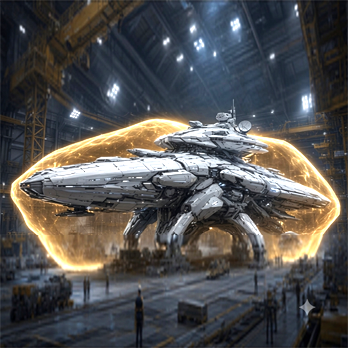
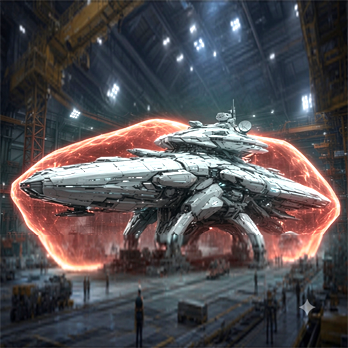
wiki: growth curve v2 (time per level on one log curve, r 1.208, L36 21.6h, L60 2,000h, retest4 autoplay comparison) KO/EN · phantom apex legend + apex legend ship art refresh

diff --git a/en/growth.html b/en/growth.html
@@ -4,7 +4,7 @@
 <meta charset="utf-8" />
 <meta name="viewport" content="width=device-width, initial-scale=1" />
 <title>Growth Curve · ARCFIRE Wiki</title>
-<meta name="description" content="EXP needed and cumulative EXP for levels 1–60, the logarithmic growth curve and EXP reward multipliers." />
+<meta name="description" content="Time per level and cumulative time for levels 1–60 on a logarithmic growth curve, plus EXP needed and EXP reward multipliers." />
 <link rel="alternate" hreflang="ko" href="https://eomikjin.github.io/arcfire-wiki/growth.html" />
 <link rel="alternate" hreflang="en" href="https://eomikjin.github.io/arcfire-wiki/en/growth.html" />
 <link rel="alternate" hreflang="x-default" href="https://eomikjin.github.io/arcfire-wiki/growth.html" />
@@ -68,9 +68,36 @@
     <div class="content-wrap">
     <article class="content">
       <div class="eyebrow">Systems · Growth</div>
-      <h1 class="page-title">Growth Curve <span class="pill">updated 2026-10-24</span></h1>
+      <h1 class="page-title">Growth Curve <span class="pill">updated 2026-11-04</span></h1>
       <p>
-        The level cap is <strong>60</strong>. The EXP needed for the next level follows a <strong>logarithmic growth curve</strong> —
+        The level cap is <strong>60</strong>. Each level takes <strong>a fixed ratio longer than the one before</strong> —
+        put time on the horizontal axis and your level traces a <strong>logarithmic curve</strong> (y = k·log x). Early levels come fast,
+        progress slows through the middle, and near the cap a single level takes a very long time (saturation).
+      </p>
+      <ul>
+        <li><strong>L1–15 — introduction.</strong> Kept as designed for the first hour: about 40 minutes.</li>
+        <li><strong>L15–60 — one ratio.</strong> Time to the next level grows by <strong id="r-inline">×1.21</strong> every level. No kinks.</li>
+        <li><strong>End of the main story (L36)</strong> at about <strong id="story-inline">22 h</strong> total · <strong>L60</strong> at about <strong id="l60-inline">2,000 h</strong>. The last level (L59→60) alone is about <strong id="last-inline">17%</strong> of the total.</li>
+        <li>Times are measured with <strong>autoplay (the twin)</strong>. Human play time may differ.</li>
+      </ul>
+
+      <h2 id="time-chart">Time per level — log chart</h2>
+      <div class="table-wrap" id="growth-chart" aria-label="Log chart of time to next level — target curve, previous table, autoplay measurement"></div>
+
+      <h2 id="smooth">Smoothness check</h2>
+      <div id="smooth-box"></div>
+
+      <h2 id="time-table">Level table — time (L1–60)</h2>
+      <div id="growth-table"></div>
+      <div class="callout note">
+        <strong>How to read</strong>
+        The <em>target curve</em> is the reference. <em>Previous table</em> is the level-time table used until now; <em>measured</em> is autoplay retest 4 (up to the end of the main story, L36).
+        Within ±15% cumulative and ±30% on a 3-level moving average counts as a pass. The swings in the middle levels (L22–34) will be smoothed out step by step in the next tests.
+      </div>
+
+      <h2 id="exp">EXP needed</h2>
+      <p>
+        The EXP needed for the next level also follows a <strong>logarithmic growth curve</strong> —
         L1–15 is a short introduction, from L16 the requirement grows smoothly, and a second climb starts in the mid-40s,
         so each level takes longer as you approach the cap. The table only ever moves you up one level at a time (one reward never skips two levels).
       </p>
@@ -81,10 +108,10 @@
         <li><strong>Level gap</strong> — combat EXP from battlefields far below your level is reduced (<a href="combat.html">Combat · Conflict</a>).</li>
       </ul>
 
-      <h2 id="chart">Log chart</h2>
+      <h2 id="chart">EXP needed — log chart</h2>
       <div class="table-wrap" id="level-curve-chart" aria-label="Log chart of EXP to next level and cumulative EXP"></div>
 
-      <h2 id="table">Level table — L1–60</h2>
+      <h2 id="table">Level table — EXP (L1–60)</h2>
       <div id="level-table"></div>
       <div class="callout note">
         <strong>Numbers may change</strong>
@@ -104,6 +131,7 @@
 <script>window.WIKI_ASSET_PREFIX = "../";</script>
 <script src="search-index-en.js"></script>
 <script src="../assets/data/levels.js"></script>
+<script src="../assets/data/growth_v2.js"></script>
 <script src="../assets/datatable.js"></script>
 <script src="../assets/wiki.js"></script>
 <script src="../assets/comments.js"></script>
@@ -156,6 +184,96 @@
     var legend = '<div style="display:flex;gap:1.2em;flex-wrap:wrap;font-size:0.85em;color:var(--text-dim);margin:0.3em 0 0.8em">' +
       series.map(function (s) { return '<span><span style="display:inline-block;width:14px;height:3px;background:' + s.color + ';vertical-align:middle;margin-right:6px"></span>' + s.name + "</span>"; }).join("") +
       "<span>Vertical axis = log scale</span></div>";
+    box.innerHTML = svg + legend;
+  })();
+  // Time per level curve (11-04) — target curve · previous table · autoplay measurement
+  (function () {
+    var D = window.GROWTH_V2;
+    if (!D) return;
+    var S = D.summary, rows = D.rows;
+    var hm = function (min) {
+      if (min == null) return "—";
+      if (min < 60) return min.toFixed(min < 10 ? 1 : 0) + " min";
+      var h = min / 60;
+      return (h < 100 ? h.toFixed(1) : Math.round(h).toLocaleString("en-US")) + " h";
+    };
+    var hh = function (h) { return h == null ? "—" : hm(h * 60); };
+    var pct = function (v, lim) {
+      if (v == null) return "—";
+      var ok = Math.abs(v) <= lim;
+      return '<span style="color:' + (ok ? "var(--text)" : "var(--warm)") + '">' + (v > 0 ? "+" : "") + v + "%" + (ok ? "" : " ✕") + "</span>";
+    };
+    document.getElementById("r-inline").textContent = "×" + S.r.toFixed(3);
+    document.getElementById("story-inline").textContent = S.storyEndCumH.toFixed(1) + " h";
+    document.getElementById("l60-inline").textContent = Math.round(S.l60CumH).toLocaleString("en-US") + " h";
+    document.getElementById("last-inline").textContent = S.lastLevelSharePct.toFixed(1) + "% (about " + Math.round(S.lastLevelH) + " h)";
+
+    var sm = S.smooth, fj = S.freezeJoin;
+    var cp = (S.checkpoints || []).map(function (c) {
+      return "<li>L" + c.level + " cumulative: measured " + c.twinH.toFixed(1) + " h / target " + c.newH.toFixed(1) + " h → " + pct(Math.round(c.devPct), 15) + "</li>";
+    }).join("");
+    document.getElementById("smooth-box").innerHTML =
+      "<ul>" +
+      "<li><strong>Target curve L15–60</strong>: constant growth per level (ln r = " + S.g.toFixed(3) + ") — no kinks</li>" +
+      "<li><strong>Previous table L15–60</strong>: largest change in growth " + sm.curL15to60.dg.toFixed(3) + " (L" + sm.curL15to60.at + ") — kinks at L22–24</li>" +
+      "<li><strong>Intro join (L14→16)</strong>: intro table L14→15 is ×" + Math.exp(fj.gFrozenL14).toFixed(2) + " → curve ×" + S.r.toFixed(3) + " — a small kink remains (the intro table is fixed)</li>" +
+      "<li><strong>Autoplay measured, cumulative</strong> (±15%):<ul>" + cp + "</ul></li>" +
+      "</ul>";
+
+    mountWikiDataTable({
+      mount: document.getElementById("growth-table"),
+      data: rows,
+      label: "Levels",
+      pageSize: 60,
+      searchKeys: ["level"],
+      columns: [
+        { key: "level", label: "Level", num: true, render: function (r) { return "L" + r.level; } },
+        { key: "newMin", label: "To next level", num: true, render: function (r) { return r.newMin == null ? "Max level" : hm(r.newMin); } },
+        { key: "newCumH", label: "Cumulative", num: true, render: function (r) { return hh(r.newCumH); } },
+        { key: "r", label: "Ratio r", num: true, render: function (r) { return r.r == null ? "—" : "×" + Number(r.r).toFixed(3); } },
+        { key: "curMin", label: "Previous", num: true, render: function (r) { return hm(r.curMin); } },
+        { key: "curCumH", label: "Prev. cum.", num: true, render: function (r) { return hh(r.curCumH); } },
+        { key: "twinMin", label: "Measured", num: true, render: function (r) { return hm(r.twinMin); } },
+        { key: "twinCumH", label: "Meas. cum.", num: true, render: function (r) { return hh(r.twinCumH); } },
+        { key: "cumDevPct", label: "Cum. dev.", num: true, render: function (r) { return pct(r.cumDevPct, 15); } },
+        { key: "ma3DevPct", label: "3-level dev.", num: true, render: function (r) { return pct(r.ma3DevPct, 30); } },
+      ],
+    });
+
+    var box = document.getElementById("growth-chart");
+    var series = [
+      { key: "newMin", name: "Target curve", color: "var(--accent)", width: 2.6 },
+      { key: "curMin", name: "Previous table", color: "var(--text-dim)", width: 1.6, dash: "5 4" },
+      { key: "twinMin", name: "Autoplay measured (retest 4)", color: "var(--warm)", width: 2 },
+    ];
+    var pts = series.map(function (s) {
+      return rows.filter(function (r) { return r[s.key] != null && r[s.key] > 0; }).map(function (r) { return [r.level, r[s.key]]; });
+    });
+    var all = [].concat.apply([], pts).map(function (p) { return p[1]; });
+    if (!box || !all.length) return;
+    var W = 760, H = 320, mL = 60, mR = 12, mT = 12, mB = 30;
+    var lo = Math.floor(Math.log10(Math.min.apply(null, all))), hi = Math.ceil(Math.log10(Math.max.apply(null, all)));
+    var X = function (lv) { return mL + ((lv - 1) / 59) * (W - mL - mR); };
+    var Y = function (v) { return mT + (1 - (Math.log10(v) - lo) / (hi - lo)) * (H - mT - mB); };
+    var svg = '<svg viewBox="0 0 ' + W + " " + H + '" width="100%" role="img" style="min-width:420px;font-family:var(--font-body)">';
+    for (var e = lo; e <= hi; e += 1) {
+      var v = Math.pow(10, e), y = Y(v);
+      svg += '<line x1="' + mL + '" x2="' + (W - mR) + '" y1="' + y + '" y2="' + y + '" stroke="var(--border)" stroke-width="1"/>';
+      svg += '<text x="' + (mL - 6) + '" y="' + y + '" dy="0.32em" text-anchor="end" font-size="11" fill="var(--text-dim)">' + hm(v) + "</text>";
+    }
+    [1, 10, 15, 20, 30, 36, 40, 50, 60].forEach(function (lv) {
+      svg += '<text x="' + X(lv) + '" y="' + (H - 8) + '" text-anchor="middle" font-size="11" fill="var(--text-dim)">L' + lv + "</text>";
+    });
+    svg += '<line x1="' + X(36) + '" x2="' + X(36) + '" y1="' + mT + '" y2="' + (H - mB) + '" stroke="var(--border)" stroke-dasharray="2 4"/>';
+    svg += '<text x="' + (X(36) + 4) + '" y="' + (mT + 12) + '" font-size="11" fill="var(--text-dim)">Story end</text>';
+    pts.forEach(function (p, i) {
+      var d = p.map(function (q, j) { return (j ? "L" : "M") + X(q[0]).toFixed(1) + " " + Y(q[1]).toFixed(1); }).join(" ");
+      svg += '<path d="' + d + '" fill="none" stroke="' + series[i].color + '" stroke-width="' + series[i].width + '"' + (series[i].dash ? ' stroke-dasharray="' + series[i].dash + '"' : "") + ' stroke-linejoin="round"/>';
+    });
+    svg += "</svg>";
+    var legend = '<div style="display:flex;gap:1.2em;flex-wrap:wrap;font-size:0.85em;color:var(--text-dim);margin:0.3em 0 0.8em">' +
+      series.map(function (s) { return '<span><span style="display:inline-block;width:14px;height:3px;background:' + s.color + ';vertical-align:middle;margin-right:6px"></span>' + s.name + "</span>"; }).join("") +
+      "<span>Vertical axis = log scale · straight target line = constant ratio</span></div>";
     box.innerHTML = svg + legend;
   })();
 </script>

diff --git a/growth.html b/growth.html
@@ -63,9 +63,36 @@
     <div class="content-wrap">
     <article class="content">
       <div class="eyebrow">체제 · 성장</div>
-      <h1 class="page-title">성장 곡선 <span class="pill">2026-10-24 갱신</span></h1>
-            <p>
-        최고 레벨은 <strong>60</strong>이다. 다음 레벨까지 필요한 경험치는 <strong>로그 성장 곡선</strong>을 따른다 —
+      <h1 class="page-title">성장 곡선 <span class="pill">2026-11-04 갱신</span></h1>
+      <p>
+        최고 레벨은 <strong>60</strong>이다. 레벨이 오를 때마다 <strong>다음 레벨까지 걸리는 시간이 일정한 비율로 늘어난다</strong> —
+        시간을 가로축에 놓으면 레벨은 <strong>로그 곡선</strong>(y = k·log x)을 그린다. 초반은 빠르게 오르고, 중반부터 점점 느려지며,
+        만렙 가까이에서는 한 레벨이 매우 길다(포화).
+      </p>
+      <ul>
+        <li><strong>L1~15 — 입문.</strong> 첫 1시간 설계 그대로 약 40분에 지나간다.</li>
+        <li><strong>L15~60 — 한 가지 비율.</strong> 다음 레벨까지 시간이 매 레벨 <strong id="r-inline">×1.21</strong>배. 꺾이는 곳이 없다.</li>
+        <li><strong>본편 끝(L36)</strong> 누적 약 <strong id="story-inline">22시간</strong> · <strong>L60</strong> 누적 약 <strong id="l60-inline">2,000시간</strong>. 마지막 한 레벨(L59→60)이 전체의 약 <strong id="last-inline">17%</strong>를 차지한다.</li>
+        <li>시간은 <strong>자동 플레이(트윈)</strong>로 잰 시간이 기준이다. 사람 플레이 시간은 이와 다를 수 있다.</li>
+      </ul>
+
+      <h2 id="time-chart">레벨당 시간 — 로그 그래프</h2>
+      <div class="table-wrap" id="growth-chart" aria-label="레벨별 다음 레벨까지 시간 로그 그래프 — 목표 곡선 · 이전 표 · 자동 플레이 실측"></div>
+
+      <h2 id="smooth">매끄러움 판정</h2>
+      <div id="smooth-box"></div>
+
+      <h2 id="time-table">레벨 표 — 시간 (L1~60)</h2>
+      <div id="growth-table"></div>
+      <div class="callout note">
+        <strong>읽는 법</strong>
+        「목표 곡선」이 기준이다. 「이전 표」는 지금까지 쓰던 레벨 시간 표, 「실측」은 자동 플레이 재테스트4(본편 끝 L36까지) 결과다.
+        누적 편차 ±15%, 3레벨 이동평균 편차 ±30% 안이면 통과로 본다. 중간 레벨(L22~34)의 출렁임은 다음 테스트들에서 단계적으로 편다.
+      </div>
+
+      <h2 id="exp">필요 경험치</h2>
+      <p>
+        다음 레벨까지 필요한 경험치도 <strong>로그 성장 곡선</strong>을 따른다 —
         L1~15는 짧게 지나가는 입문 구간이고, L16부터 필요량이 매끄럽게 커지며, L40대 중반부터 두 번째 오르막이 시작돼
         만렙에 가까울수록 한 레벨이 길어진다. 레벨 표는 한 번에 한 레벨씩만 오르도록 짜여 있다(보상 한 번으로 두 레벨을 건너뛰지 않는다).
       </p>
@@ -75,9 +102,9 @@
         <li><strong>퀘스트 보상은 그 퀘스트의 레벨까지만 배율을 받는다.</strong> 퀘스트를 쌓아 두었다가 높은 레벨에서 깨도 보상이 더 커지지 않는다.</li>
         <li><strong>레벨 차이</strong> — 내 레벨보다 많이 낮은 전장에서 얻는 전투 경험치는 줄어든다(<a href="combat.html">전투 · 분쟁</a>).</li>
       </ul>
-      <h2 id="chart">로그 그래프</h2>
+      <h2 id="chart">필요 경험치 — 로그 그래프</h2>
       <div class="table-wrap" id="level-curve-chart" aria-label="레벨별 필요 경험치 · 누적 경험치 로그 그래프"></div>
-      <h2 id="table">레벨 표 — L1~60</h2>
+      <h2 id="table">레벨 표 — 경험치 (L1~60)</h2>
       <div id="level-table"></div>
       <div class="callout note">
         <strong>수치는 바뀔 수 있다</strong>
@@ -96,6 +123,7 @@
 <footer class="site-footer">아크파이어 게임 위키 · 비공식 정리본</footer>
 <script src="assets/search-index.js"></script>
 <script src="assets/data/levels.js"></script>
+<script src="assets/data/growth_v2.js"></script>
 <script src="assets/datatable.js"></script>
 <script src="assets/wiki.js"></script>
 <script src="assets/comments.js"></script>
@@ -149,6 +177,96 @@
     var legend = '<div style="display:flex;gap:1.2em;flex-wrap:wrap;font-size:0.85em;color:var(--text-dim);margin:0.3em 0 0.8em">' +
       series.map(function (s) { return '<span><span style="display:inline-block;width:14px;height:3px;background:' + s.color + ';vertical-align:middle;margin-right:6px"></span>' + s.name + "</span>"; }).join("") +
       "<span>세로축 = 로그 눈금</span></div>";
+    box.innerHTML = svg + legend;
+  })();
+  // 레벨당 시간 곡선(11-04) — 목표 곡선 · 이전 표 · 자동 플레이 실측
+  (function () {
+    var D = window.GROWTH_V2;
+    if (!D) return;
+    var S = D.summary, rows = D.rows;
+    var hm = function (min) {
+      if (min == null) return "—";
+      if (min < 60) return min.toFixed(min < 10 ? 1 : 0) + "분";
+      var h = min / 60;
+      return (h < 100 ? h.toFixed(1) : Math.round(h).toLocaleString("ko-KR")) + "시간";
+    };
+    var hh = function (h) { return h == null ? "—" : hm(h * 60); };
+    var pct = function (v, lim) {
+      if (v == null) return "—";
+      var ok = Math.abs(v) <= lim;
+      return '<span style="color:' + (ok ? "var(--text)" : "var(--warm)") + '">' + (v > 0 ? "+" : "") + v + "%" + (ok ? "" : " ✕") + "</span>";
+    };
+    document.getElementById("r-inline").textContent = "×" + S.r.toFixed(3);
+    document.getElementById("story-inline").textContent = S.storyEndCumH.toFixed(1) + "시간";
+    document.getElementById("l60-inline").textContent = Math.round(S.l60CumH).toLocaleString("ko-KR") + "시간";
+    document.getElementById("last-inline").textContent = S.lastLevelSharePct.toFixed(1) + "%(약 " + Math.round(S.lastLevelH) + "시간)";
+
+    var sm = S.smooth, fj = S.freezeJoin;
+    var cp = (S.checkpoints || []).map(function (c) {
+      return "<li>L" + c.level + " 누적: 실측 " + c.twinH.toFixed(1) + "시간 / 목표 " + c.newH.toFixed(1) + "시간 → " + pct(Math.round(c.devPct), 15) + "</li>";
+    }).join("");
+    document.getElementById("smooth-box").innerHTML =
+      "<ul>" +
+      "<li><strong>목표 곡선 L15~60</strong>: 레벨당 증가율이 일정(ln r = " + S.g.toFixed(3) + ") — 꺾임 없음</li>" +
+      "<li><strong>이전 표 L15~60</strong>: 증가율 변화 최대 " + sm.curL15to60.dg.toFixed(3) + "(L" + sm.curL15to60.at + ") — L22~24에서 꺾임</li>" +
+      "<li><strong>입문 이음(L14→16)</strong>: 입문 표 L14→15가 ×" + Math.exp(fj.gFrozenL14).toFixed(2) + " → 곡선 ×" + S.r.toFixed(3) + " — 작은 꺾임이 남아 있다(입문 표는 고정)</li>" +
+      "<li><strong>자동 플레이 실측 누적</strong>(±15%):<ul>" + cp + "</ul></li>" +
+      "</ul>";
+
+    mountWikiDataTable({
+      mount: document.getElementById("growth-table"),
+      data: rows,
+      label: "레벨",
+      pageSize: 60,
+      searchKeys: ["level"],
+      columns: [
+        { key: "level", label: "레벨", num: true, render: function (r) { return "L" + r.level; } },
+        { key: "newMin", label: "다음 레벨까지", num: true, render: function (r) { return r.newMin == null ? "최고 레벨" : hm(r.newMin); } },
+        { key: "newCumH", label: "누적", num: true, render: function (r) { return hh(r.newCumH); } },
+        { key: "r", label: "비율 r", num: true, render: function (r) { return r.r == null ? "—" : "×" + Number(r.r).toFixed(3); } },
+        { key: "curMin", label: "이전 표", num: true, render: function (r) { return hm(r.curMin); } },
+        { key: "curCumH", label: "이전 누적", num: true, render: function (r) { return hh(r.curCumH); } },
+        { key: "twinMin", label: "실측", num: true, render: function (r) { return hm(r.twinMin); } },
+        { key: "twinCumH", label: "실측 누적", num: true, render: function (r) { return hh(r.twinCumH); } },
+        { key: "cumDevPct", label: "누적 편차", num: true, render: function (r) { return pct(r.cumDevPct, 15); } },
+        { key: "ma3DevPct", label: "3레벨 편차", num: true, render: function (r) { return pct(r.ma3DevPct, 30); } },
+      ],
+    });
+
+    var box = document.getElementById("growth-chart");
+    var series = [
+      { key: "newMin", name: "목표 곡선", color: "var(--accent)", width: 2.6 },
+      { key: "curMin", name: "이전 표", color: "var(--text-dim)", width: 1.6, dash: "5 4" },
+      { key: "twinMin", name: "자동 플레이 실측(재테스트4)", color: "var(--warm)", width: 2 },
+    ];
+    var pts = series.map(function (s) {
+      return rows.filter(function (r) { return r[s.key] != null && r[s.key] > 0; }).map(function (r) { return [r.level, r[s.key]]; });
+    });
+    var all = [].concat.apply([], pts).map(function (p) { return p[1]; });
+    if (!box || !all.length) return;
+    var W = 760, H = 320, mL = 60, mR = 12, mT = 12, mB = 30;
+    var lo = Math.floor(Math.log10(Math.min.apply(null, all))), hi = Math.ceil(Math.log10(Math.max.apply(null, all)));
+    var X = function (lv) { return mL + ((lv - 1) / 59) * (W - mL - mR); };
+    var Y = function (v) { return mT + (1 - (Math.log10(v) - lo) / (hi - lo)) * (H - mT - mB); };
+    var svg = '<svg viewBox="0 0 ' + W + " " + H + '" width="100%" role="img" style="min-width:420px;font-family:var(--font-body)">';
+    for (var e = lo; e <= hi; e += 1) {
+      var v = Math.pow(10, e), y = Y(v);
+      svg += '<line x1="' + mL + '" x2="' + (W - mR) + '" y1="' + y + '" y2="' + y + '" stroke="var(--border)" stroke-width="1"/>';
+      svg += '<text x="' + (mL - 6) + '" y="' + y + '" dy="0.32em" text-anchor="end" font-size="11" fill="var(--text-dim)">' + hm(v) + "</text>";
+    }
+    [1, 10, 15, 20, 30, 36, 40, 50, 60].forEach(function (lv) {
+      svg += '<text x="' + X(lv) + '" y="' + (H - 8) + '" text-anchor="middle" font-size="11" fill="var(--text-dim)">L' + lv + "</text>";
+    });
+    svg += '<line x1="' + X(36) + '" x2="' + X(36) + '" y1="' + mT + '" y2="' + (H - mB) + '" stroke="var(--border)" stroke-dasharray="2 4"/>';
+    svg += '<text x="' + (X(36) + 4) + '" y="' + (mT + 12) + '" font-size="11" fill="var(--text-dim)">본편 끝</text>';
+    pts.forEach(function (p, i) {
+      var d = p.map(function (q, j) { return (j ? "L" : "M") + X(q[0]).toFixed(1) + " " + Y(q[1]).toFixed(1); }).join(" ");
+      svg += '<path d="' + d + '" fill="none" stroke="' + series[i].color + '" stroke-width="' + series[i].width + '"' + (series[i].dash ? ' stroke-dasharray="' + series[i].dash + '"' : "") + ' stroke-linejoin="round"/>';
+    });
+    svg += "</svg>";
+    var legend = '<div style="display:flex;gap:1.2em;flex-wrap:wrap;font-size:0.85em;color:var(--text-dim);margin:0.3em 0 0.8em">' +
+      series.map(function (s) { return '<span><span style="display:inline-block;width:14px;height:3px;background:' + s.color + ';vertical-align:middle;margin-right:6px"></span>' + s.name + "</span>"; }).join("") +
+      "<span>세로축 = 로그 눈금 · 목표 곡선이 직선 = 비율 일정</span></div>";
     box.innerHTML = svg + legend;
   })();
 </script>

diff --git a/assets/data/growth_v2.js b/assets/data/growth_v2.js
@@ -1,0 +1,2 @@
+// 생성: docs/balance/staging/growth-curve-v2-20261104/build-growth-curve-v2.mjs — 손으로 고치지 말 것
+window.GROWTH_V2 = {"summary":{"generatedAt":"2026-11-04T00:32:22.141Z","targetL60H":2000,"r":1.2084,"g":0.1892971705303798,"storyEndLevel":36,"storyEndCumH":21.55681758662071,"l60CumH":2001.978267582052,"lastLevelH":345.2154978738548,"lastLevelSharePct":17.24371854899299,"freezeJoin":{"gFrozenL14":0.3566749439387324,"gCurve":0.1892971705303798,"dg":0.16737777340835258},"smooth":{"newL15to60":{"dg":3.608224830031759e-16,"at":22},"newWithFrozen":{"dg":0.40546510810816444,"at":2},"curAll":{"dg":0.40546510810816444,"at":2},"curL15to60":{"dg":0.1098148660072065,"at":22}},"twinMaxLevel":36,"checkpoints":[{"level":20,"twinH":1.946108611111111,"newH":1.2887872047551594,"devPct":51.003098411488956},{"level":25,"twinH":5.061691111111111,"newH":2.913239263821098,"devPct":73.74786801658144},{"level":30,"twinH":15.788919444444444,"newH":7.098865860501894,"devPct":122.4146751707766},{"level":35,"twinH":20.54463472222222,"newH":17.883714763285372,"devPct":14.879011403154463},{"level":36,"twinH":24.831139166666667,"newH":21.55681758662071,"devPct":15.189262361612087}]},"rows":[{"level":1,"newMin":3,"newCumH":0,"r":0.667,"curMin":3,"curCumH":0,"twinMin":1.3,"twinCumH":0,"cumDevPct":null,"ma3DevPct":null},{"level":2,"newMin":2,"newCumH":0.05,"r":1,"curMin":2,"curCumH":0.05,"twinMin":0.9,"twinCumH":0.02,"cumDevPct":-56,"ma3DevPct":-31},{"level":3,"newMin":2,"newCumH":0.08,"r":1,"curMin":2,"curCumH":0.08,"twinMin":2.6,"twinCumH":0.04,"cumDevPct":-56,"ma3DevPct":-17},{"level":4,"newMin":2,"newCumH":0.12,"r":1,"curMin":2,"curCumH":0.12,"twinMin":1.5,"twinCumH":0.08,"cumDevPct":-31,"ma3DevPct":1},{"level":5,"newMin":2,"newCumH":0.15,"r":1,"curMin":2,"curCumH":0.15,"twinMin":2,"twinCumH":0.11,"cumDevPct":-30,"ma3DevPct":-17},{"level":6,"newMin":2,"newCumH":0.18,"r":1.5,"curMin":2,"curCumH":0.18,"twinMin":1.5,"twinCumH":0.14,"cumDevPct":-25,"ma3DevPct":73},{"level":7,"newMin":3,"newCumH":0.22,"r":1,"curMin":3,"curCumH":0.22,"twinMin":8.6,"twinCumH":0.16,"cumDevPct":-25,"ma3DevPct":54},{"level":8,"newMin":3,"newCumH":0.27,"r":1,"curMin":3,"curCumH":0.27,"twinMin":2.2,"twinCumH":0.31,"cumDevPct":15,"ma3DevPct":43},{"level":9,"newMin":3,"newCumH":0.32,"r":1.167,"curMin":3,"curCumH":0.32,"twinMin":2.1,"twinCumH":0.34,"cumDevPct":8,"ma3DevPct":-32},{"level":10,"newMin":3.5,"newCumH":0.37,"r":1,"curMin":3.5,"curCumH":0.37,"twinMin":2.2,"twinCumH":0.38,"cumDevPct":3,"ma3DevPct":-38},{"level":11,"newMin":3.5,"newCumH":0.42,"r":1,"curMin":3.5,"curCumH":0.42,"twinMin":1.9,"twinCumH":0.41,"cumDevPct":-2,"ma3DevPct":-44},{"level":12,"newMin":3.5,"newCumH":0.48,"r":1,"curMin":3.5,"curCumH":0.48,"twinMin":1.7,"twinCumH":0.45,"cumDevPct":-8,"ma3DevPct":-30},{"level":13,"newMin":3.5,"newCumH":0.54,"r":1,"curMin":3.5,"curCumH":0.54,"twinMin":3.7,"twinCumH":0.48,"cumDevPct":-12,"ma3DevPct":-37},{"level":14,"newMin":3.5,"newCumH":0.6,"r":1.429,"curMin":3.5,"curCumH":0.6,"twinMin":1.2,"twinCumH":0.54,"cumDevPct":-11,"ma3DevPct":59},{"level":15,"newMin":5,"newCumH":0.66,"r":1.208,"curMin":5,"curCumH":0.66,"twinMin":14.2,"twinCumH":0.56,"cumDevPct":-15,"ma3DevPct":99},{"level":16,"newMin":6.04,"newCumH":0.74,"r":1.2084,"curMin":6,"curCumH":0.74,"twinMin":13.5,"twinCumH":0.79,"cumDevPct":7,"ma3DevPct":204},{"level":17,"newMin":7.3,"newCumH":0.84,"r":1.2084,"curMin":7,"curCumH":0.84,"twinMin":27.9,"twinCumH":1.02,"cumDevPct":21,"ma3DevPct":160},{"level":18,"newMin":8.82,"newCumH":0.96,"r":1.2084,"curMin":9,"curCumH":0.96,"twinMin":16.1,"twinCumH":1.49,"cumDevPct":54,"ma3DevPct":108},{"level":19,"newMin":10.66,"newCumH":1.11,"r":1.2084,"curMin":11,"curCumH":1.11,"twinMin":11.5,"twinCumH":1.75,"cumDevPct":58,"ma3DevPct":14},{"level":20,"newMin":12.88,"newCumH":1.29,"r":1.2084,"curMin":15,"curCumH":1.29,"twinMin":9.2,"twinCumH":1.95,"cumDevPct":51,"ma3DevPct":4},{"level":21,"newMin":15.57,"newCumH":1.5,"r":1.2084,"curMin":20,"curCumH":1.54,"twinMin":20,"twinCumH":2.1,"cumDevPct":40,"ma3DevPct":24},{"level":22,"newMin":18.81,"newCumH":1.76,"r":1.2084,"curMin":25,"curCumH":1.88,"twinMin":29.3,"twinCumH":2.43,"cumDevPct":38,"ma3DevPct":88},{"level":23,"newMin":22.73,"newCumH":2.08,"r":1.2084,"curMin":28,"curCumH":2.29,"twinMin":58.3,"twinCumH":2.92,"cumDevPct":41,"ma3DevPct":129},{"level":24,"newMin":27.47,"newCumH":2.46,"r":1.2084,"curMin":29.3,"curCumH":2.76,"twinMin":70.2,"twinCumH":3.89,"cumDevPct":59,"ma3DevPct":225},{"level":25,"newMin":33.2,"newCumH":2.91,"r":1.2084,"curMin":30.6,"curCumH":3.25,"twinMin":142.6,"twinCumH":5.06,"cumDevPct":74,"ma3DevPct":239},{"level":26,"newMin":40.11,"newCumH":3.47,"r":1.2084,"curMin":32,"curCumH":3.76,"twinMin":129,"twinCumH":7.44,"cumDevPct":115,"ma3DevPct":226},{"level":27,"newMin":48.47,"newCumH":4.14,"r":1.2084,"curMin":33.4,"curCumH":4.29,"twinMin":125.5,"twinCumH":9.59,"cumDevPct":132,"ma3DevPct":134},{"level":28,"newMin":58.57,"newCumH":4.94,"r":1.2084,"curMin":34.9,"curCumH":4.85,"twinMin":89.7,"twinCumH":11.68,"cumDevPct":136,"ma3DevPct":109},{"level":29,"newMin":70.78,"newCumH":5.92,"r":1.2084,"curMin":36.5,"curCumH":5.43,"twinMin":156.9,"twinCumH":13.17,"cumDevPct":123,"ma3DevPct":83},{"level":30,"newMin":85.53,"newCumH":7.1,"r":1.2084,"curMin":38.1,"curCumH":6.04,"twinMin":146.8,"twinCumH":15.79,"cumDevPct":122,"ma3DevPct":40},{"level":31,"newMin":103.36,"newCumH":8.52,"r":1.2084,"curMin":39.8,"curCumH":6.67,"twinMin":60.7,"twinCumH":18.24,"cumDevPct":114,"ma3DevPct":-30},{"level":32,"newMin":124.9,"newCumH":10.25,"r":1.2084,"curMin":41.6,"curCumH":7.33,"twinMin":13.4,"twinCumH":19.25,"cumDevPct":88,"ma3DevPct":-76},{"level":33,"newMin":150.93,"newCumH":12.33,"r":1.2084,"curMin":43.5,"curCumH":8.03,"twinMin":17.4,"twinCumH":19.47,"cumDevPct":58,"ma3DevPct":-83},{"level":34,"newMin":182.38,"newCumH":14.84,"r":1.2084,"curMin":45.4,"curCumH":8.75,"twinMin":47,"twinCumH":19.76,"cumDevPct":33,"ma3DevPct":-42},{"level":35,"newMin":220.39,"newCumH":17.88,"r":1.2084,"curMin":47.5,"curCumH":9.51,"twinMin":257.2,"twinCumH":20.54,"cumDevPct":15,"ma3DevPct":null},{"level":36,"newMin":266.31,"newCumH":21.56,"r":1.2084,"curMin":49.6,"curCumH":10.3,"twinMin":null,"twinCumH":24.83,"cumDevPct":15,"ma3DevPct":null},{"level":37,"newMin":321.81,"newCumH":26,"r":1.2084,"curMin":51.9,"curCumH":11.13,"twinMin":null,"twinCumH":null,"cumDevPct":null,"ma3DevPct":null},{"level":38,"newMin":388.88,"newCumH":31.36,"r":1.2084,"curMin":54.2,"curCumH":11.99,"twinMin":null,"twinCumH":null,"cumDevPct":null,"ma3DevPct":null},{"level":39,"newMin":469.92,"newCumH":37.84,"r":1.2084,"curMin":56.6,"curCumH":12.9,"twinMin":null,"twinCumH":null,"cumDevPct":null,"ma3DevPct":null},{"level":40,"newMin":567.86,"newCumH":45.67,"r":1.2084,"curMin":59.2,"curCumH":13.84,"twinMin":null,"twinCumH":null,"cumDevPct":null,"ma3DevPct":null},{"level":41,"newMin":686.2,"newCumH":55.14,"r":1.2084,"curMin":61.8,"curCumH":14.83,"twinMin":null,"twinCumH":null,"cumDevPct":null,"ma3DevPct":null},{"level":42,"newMin":829.2,"newCumH":66.57,"r":1.2084,"curMin":64.6,"curCumH":15.86,"twinMin":null,"twinCumH":null,"cumDevPct":null,"ma3DevPct":null},{"level":43,"newMin":1002.01,"newCumH":80.39,"r":1.2084,"curMin":67.5,"curCumH":16.93,"twinMin":null,"twinCumH":null,"cumDevPct":null,"ma3DevPct":null},{"level":44,"newMin":1210.82,"newCumH":97.09,"r":1.2084,"curMin":70.6,"curCumH":18.06,"twinMin":null,"twinCumH":null,"cumDevPct":null,"ma3DevPct":null},{"level":45,"newMin":1463.16,"newCumH":117.27,"r":1.2084,"curMin":73.7,"curCumH":19.23,"twinMin":null,"twinCumH":null,"cumDevPct":null,"ma3DevPct":null},{"level":46,"newMin":1768.08,"newCumH":141.66,"r":1.2084,"curMin":77.1,"curCumH":20.46,"twinMin":null,"twinCumH":null,"cumDevPct":null,"ma3DevPct":null},{"level":47,"newMin":2136.55,"newCumH":171.13,"r":1.2084,"curMin":80.5,"curCumH":21.75,"twinMin":null,"twinCumH":null,"cumDevPct":null,"ma3DevPct":null},{"level":48,"newMin":2581.81,"newCumH":206.74,"r":1.2084,"curMin":84.2,"curCumH":23.09,"twinMin":null,"twinCumH":null,"cumDevPct":null,"ma3DevPct":null},{"level":49,"newMin":3119.85,"newCumH":249.77,"r":1.2084,"curMin":87.9,"curCumH":24.49,"twinMin":null,"twinCumH":null,"cumDevPct":null,"ma3DevPct":null},{"level":50,"newMin":3770.03,"newCumH":301.76,"r":1.2084,"curMin":91.9,"curCumH":25.96,"twinMin":null,"twinCumH":null,"cumDevPct":null,"ma3DevPct":null},{"level":51,"newMin":4555.71,"newCumH":364.6,"r":1.2084,"curMin":96,"curCumH":27.49,"twinMin":null,"twinCumH":null,"cumDevPct":null,"ma3DevPct":null},{"level":52,"newMin":5505.12,"newCumH":440.53,"r":1.2084,"curMin":100.4,"curCumH":29.09,"twinMin":null,"twinCumH":null,"cumDevPct":null,"ma3DevPct":null},{"level":53,"newMin":6652.38,"newCumH":532.28,"r":1.2084,"curMin":104.9,"curCumH":30.76,"twinMin":null,"twinCumH":null,"cumDevPct":null,"ma3DevPct":null},{"level":54,"newMin":8038.74,"newCumH":643.15,"r":1.2084,"curMin":109.6,"curCumH":32.51,"twinMin":null,"twinCumH":null,"cumDevPct":null,"ma3DevPct":null},{"level":55,"newMin":9714.01,"newCumH":777.13,"r":1.2084,"curMin":114.5,"curCumH":34.34,"twinMin":null,"twinCumH":null,"cumDevPct":null,"ma3DevPct":null},{"level":56,"newMin":11738.41,"newCumH":939.03,"r":1.2084,"curMin":119.7,"curCumH":36.25,"twinMin":null,"twinCumH":null,"cumDevPct":null,"ma3DevPct":null},{"level":57,"newMin":14184.7,"newCumH":1134.67,"r":1.2084,"curMin":125.1,"curCumH":38.24,"twinMin":null,"twinCumH":null,"cumDevPct":null,"ma3DevPct":null},{"level":58,"newMin":17140.79,"newCumH":1371.08,"r":1.2084,"curMin":130.7,"curCumH":40.33,"twinMin":null,"twinCumH":null,"cumDevPct":null,"ma3DevPct":null},{"level":59,"newMin":20712.93,"newCumH":1656.76,"r":1.2084,"curMin":136.6,"curCumH":42.5,"twinMin":null,"twinCumH":null,"cumDevPct":null,"ma3DevPct":null},{"level":60,"newMin":null,"newCumH":2001.98,"r":null,"curMin":null,"curCumH":44.78,"twinMin":null,"twinCumH":null,"cumDevPct":null,"ma3DevPct":null}]};

diff --git a/assets/data/meta.js b/assets/data/meta.js
@@ -1,1 +1,1 @@
-window.WIKI_META = {"builtAt":"2026-11-03","counts":{"planets":21,"captains":324,"ships":327,"items":333,"weapons":120,"missions":151,"attendants":100,"skills":57,"levels":60,"enemies":137}};
+window.WIKI_META = {"builtAt":"2026-11-04","counts":{"planets":21,"captains":324,"ships":327,"items":333,"weapons":120,"missions":151,"attendants":100,"skills":57,"levels":60,"enemies":137}};

diff --git a/README.md b/README.md
@@ -2,4 +2,4 @@
 
 게임 소개 정적 사이트. `index.html` = 랜딩(첫 화면) · `wiki.html` = 위키 홈 · 플레이 영상은 `media/gameplay.mp4`.
 
-원본: 게임 저장소 `게임소개페이지/` · 생성 `tools/wiki/export-wiki-site.mjs` · 2026-11-03
+원본: 게임 저장소 `게임소개페이지/` · 생성 `tools/wiki/export-wiki-site.mjs` · 2026-11-04
